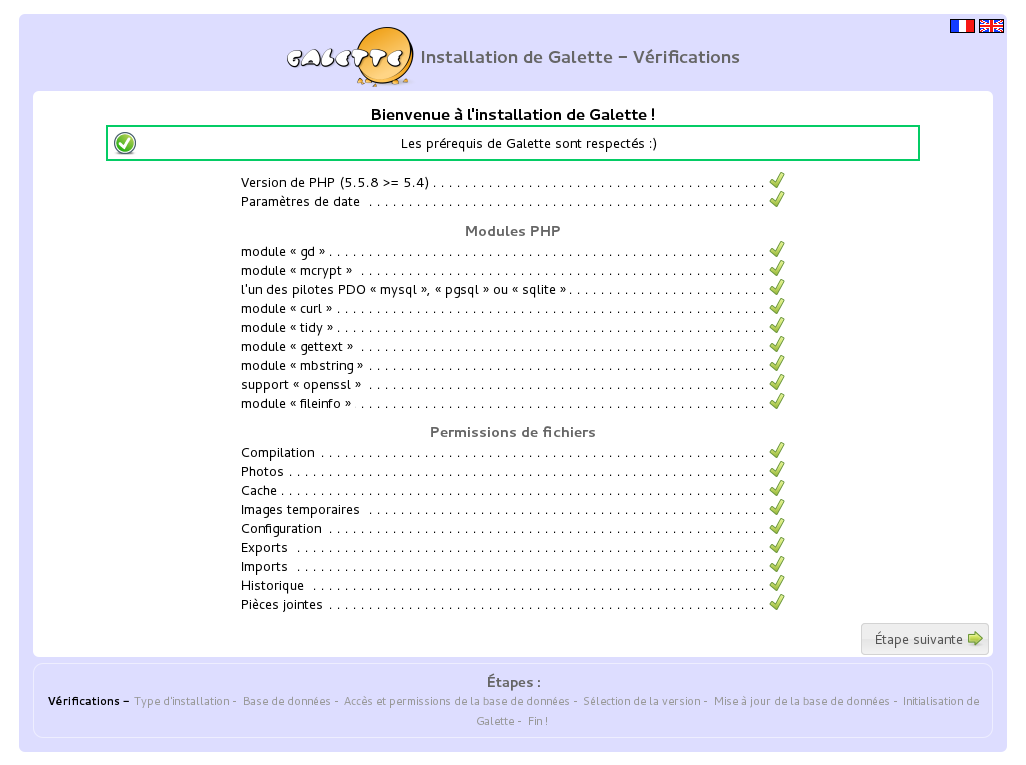
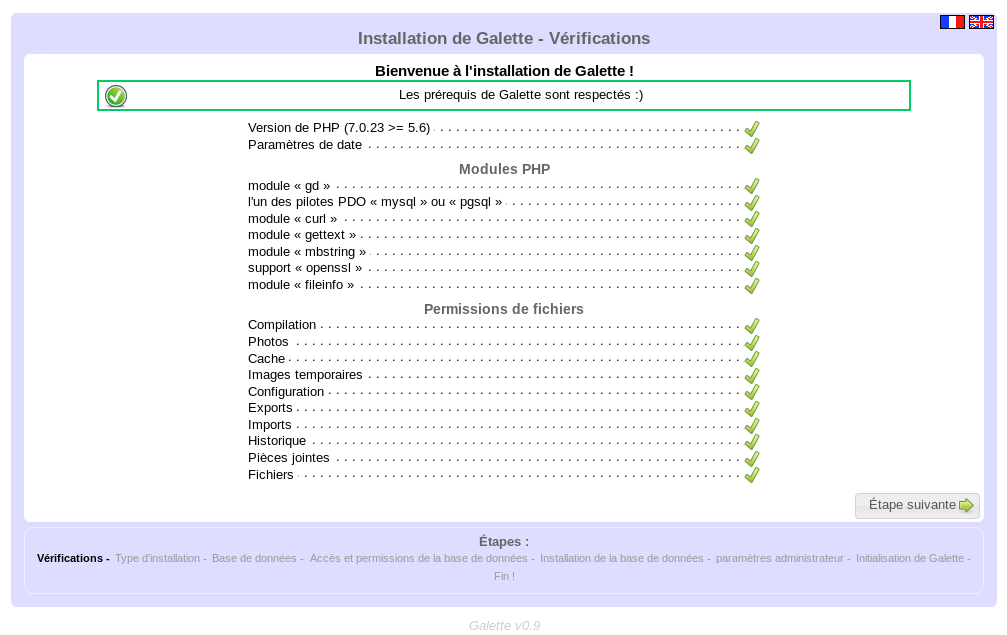
Mise à jour installation & captures

Changed region(s): [[0.0, 0.0, 1.0, 1.0], [0.4002, 0.5386, 0.5849, 0.5984], [0.4002, 0.4787, 0.5849, 0.5087]]

diff --git a/source/installation/preparation.rst b/source/installation/preparation.rst
@@ -43,7 +43,7 @@ Exposition des dossiers par le serveur web
 
 L'installation par défaut de Galette (et de beaucoup d'autres applications web) se résume souvent à copier un dossier complet dans un endroit accessible par le serveur web. Cette manière de procéder fonctionne sans problèmes, mais elle expose depuis la web des fichiers qui ne devraient pas l'être (en gros, toute la mécanique interne, les fichiers de configuration, ...).
 
-Il est possible avec Galette de limiter cela en n'exposant que le seul dossier ``webroot`` depuis le serveur web. Tous les autres dossiers serotn davantage protégés ; il ne serontpurement et simplement plus du tout accessibles depuis le serveur web lui même.
+Il est possible avec Galette de limiter cela en n'exposant que le seul dossier ``webroot`` depuis le serveur web. Tous les autres dossiers seront davantage protégés ; il ne seront purement et simplement plus du tout accessibles depuis le serveur web lui même.
 
 .. note::
 

diff --git a/source/installation/ftp.rst b/source/installation/ftp.rst
@@ -22,11 +22,10 @@ Cas particuliers
 OVH
 ===
 
-Placer à la racine de l'hébergement un fichier ``.htaccess`` contenant la ligne suivante qui va activer le support PHP 5.4 :
+Cet hébergeur propose de `modifier la version de PHP utilisée depuis la configuration de votre compte client <http://docs.ovh.com/fr/fr/web/hosting/mutualise-configurer-la-version-de-php-depuis-votre-espace-client/>`_.
 
-.. code-block:: raw
+Des informations complémentaires sont disponibles à l'addresse : https://docs.ovh.com/fr/fr/web/hosting/configurer-le-php-sur-son-hebergement-web-mutu-2014/
 
-   SetEnv SetEnv PHP_VER 5_4
 
 Nginx
 =====

diff --git a/source/installation/windows.rst b/source/installation/windows.rst
@@ -3,7 +3,7 @@
 Windows
 =======
 
-L'installation présentée ici a été effectuée sur Windows Seven Pro 64bits, avec `XAMPP <http://www.apachefriends.org/fr/xampp-windows.html>`_ version 1.7.5.
+L'installation présentée ici repose sur `XAMPP <http://www.apachefriends.org/fr/xampp-windows.html>`_ ; il existe d'autres méthodes d'installation qui ne seront pas décrites ici.
 
 Dans un premier temps, il faudra donc télécharger et installer XAMPP sur votre poste. Installons tout cela dans ``C:\xampp``.
 

diff --git a/source/installation/index.rst b/source/installation/index.rst
@@ -30,7 +30,7 @@ Pré-requis et hébergement
 Pour installer Galette, vous aurez besoin que les composants suivants soient installés  :
 
 * un serveur web Apache,
-* PHP en version 5.5 ou supérieure,
+* PHP en version 5.6 ou supérieure (PHP 7.1 ou plus recommandé),
 
   * le module PHP `gd`,
   * le module PHP `PDO` `mysql` ou `postgresql`,
